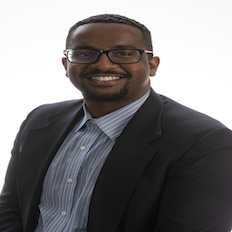
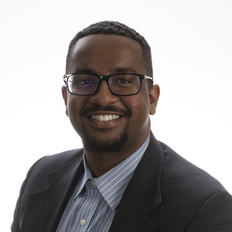
cropped and resized image. We should still take new pics tho

diff --git a/index.html b/index.html
@@ -343,7 +343,7 @@
         <!-- 2 -->
         <div class="tile is-child">
           <figure class="image" style="margin:3em">
-            <img class="is-rounded" src="./assets/simon.png" alt="...">
+            <img class="is-rounded" src="./assets/simon_2.jpg" alt="...">
           </figure>
           <h1 class="title has-text-centered">Simon Ibssa</h1>
           <h1 class="subtitle has-text-centered">Co-Founder</h1>
